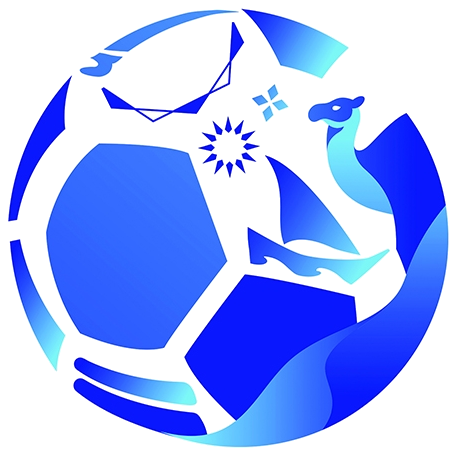
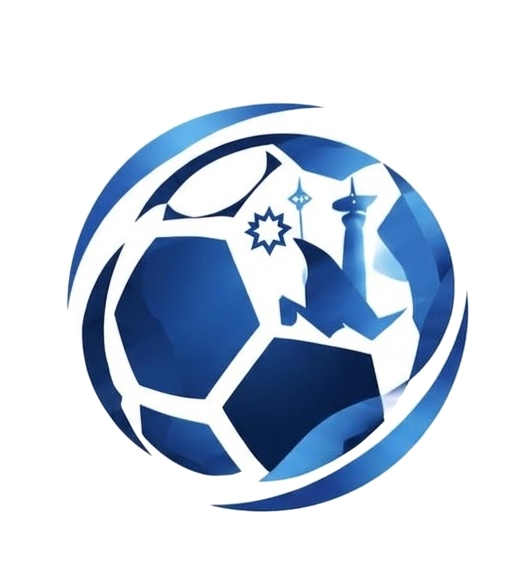
فانتسي v123: شعار Kuwait Fantasy League الجديد بدل الكرة+النص
- assets: logo-light.png (نص كحلي) و logo-dark.png (نص أبيض للوضع الليلي والخلفيات الداكنة) و ball.png (الكرة وحدها للأيقونة والتنبيهات) — كلها بخلفية شفافة مقصوصة من الشعار
- الشريط العلوي: الشعار الكامل بنسختيه (lk-light/lk-dark) بدل الكرة + «فانتسي الدوري الكويتي»
- شاشة البداية: الشعار الكامل بعرض 300px بدل الكرة + النص
- صفحة الدخول: الشعار بنسختيه فوق العنوان؛ بوابة المعاينة: النسخة البيضاء
- لوحة إعلانات الملعب: ثلاث نسخ من الشعار بدل الكرة + النص
- رفع الإصدار v123

diff --git a/fantasy/index.html b/fantasy/index.html
@@ -9,20 +9,20 @@
 <link rel="preconnect" href="https://fonts.googleapis.com">
 <link rel="preconnect" href="https://fonts.gstatic.com" crossorigin>
 <link href="https://fonts.googleapis.com/css2?family=Almarai:wght@300;400;700;800&display=swap" rel="stylesheet">
-<link rel="stylesheet" href="css/style.css?v=122">
+<link rel="stylesheet" href="css/style.css?v=123">
 <script src="https://cdnjs.cloudflare.com/ajax/libs/firebase/10.12.2/firebase-app-compat.min.js"></script>
 <script src="https://cdnjs.cloudflare.com/ajax/libs/firebase/10.12.2/firebase-auth-compat.min.js"></script>
 <script src="https://cdnjs.cloudflare.com/ajax/libs/firebase/10.12.2/firebase-firestore-compat.min.js"></script>
 </head>
 <body>
   <div id="splash">
-    <div class="splash-card"><img class="splash-logo" src="assets/ball.png" alt="فانتسي الدوري الكويتي"><div class="splash-name">فانتسي الدوري الكويتي</div></div>
+    <div class="splash-card"><img class="splash-logo" src="assets/logo-light.png" alt="Kuwait Fantasy League"></div>
   </div>
 
   <header id="topbar" style="display:none">
     <div id="brand" onclick="APP.go('dashboard')">
-      <img class="brand-ball" src="assets/ball.png" alt="">
-      <span class="brand-name">فانتسي الدوري الكويتي</span>
+      <img class="brand-lockup lk-dark" src="assets/logo-dark.png" alt="Kuwait Fantasy League">
+      <img class="brand-lockup lk-light" src="assets/logo-light.png" alt="Kuwait Fantasy League">
     </div>
     <a id="toSite" href="/" title="العودة للموقع">
       <svg viewBox="0 0 24 24" width="16" height="16" fill="none" stroke="currentColor" stroke-width="2.2" stroke-linecap="round" stroke-linejoin="round" aria-hidden="true"><path d="M9 6l6 6-6 6"/></svg>
@@ -37,24 +37,24 @@
   <nav id="bottomnav"></nav>
   <div id="toasts"></div>
 
-  <script src="js/cloud.js?v=122"></script>
-  <script src="js/data.js?v=122"></script>
-  <script src="js/engine.js?v=122"></script>
-  <script src="js/ui.js?v=122"></script>
-  <script src="js/kits.js?v=122"></script>
-  <script src="js/kits-number.js?v=122"></script>
-  <script src="js/views.js?v=122"></script>
-  <script src="js/picker.js?v=122"></script>
-  <script src="js/extras.js?v=122"></script>
-  <script src="js/adminauth.js?v=122"></script>
-  <script src="js/admin.js?v=122"></script>
-  <script src="js/guide.js?v=122"></script>
-  <script src="js/live-gw.js?v=122"></script>
-  <script src="js/mfsync.js?v=122"></script>
-  <script src="js/roster-sync.js?v=122"></script>
-  <script src="js/app.js?v=122"></script>
-  <script src="js/i18n.js?v=122"></script>
-  <script src="js/i18n-more.js?v=122"></script>
-  <script src="js/gate.js?v=122"></script>
+  <script src="js/cloud.js?v=123"></script>
+  <script src="js/data.js?v=123"></script>
+  <script src="js/engine.js?v=123"></script>
+  <script src="js/ui.js?v=123"></script>
+  <script src="js/kits.js?v=123"></script>
+  <script src="js/kits-number.js?v=123"></script>
+  <script src="js/views.js?v=123"></script>
+  <script src="js/picker.js?v=123"></script>
+  <script src="js/extras.js?v=123"></script>
+  <script src="js/adminauth.js?v=123"></script>
+  <script src="js/admin.js?v=123"></script>
+  <script src="js/guide.js?v=123"></script>
+  <script src="js/live-gw.js?v=123"></script>
+  <script src="js/mfsync.js?v=123"></script>
+  <script src="js/roster-sync.js?v=123"></script>
+  <script src="js/app.js?v=123"></script>
+  <script src="js/i18n.js?v=123"></script>
+  <script src="js/i18n-more.js?v=123"></script>
+  <script src="js/gate.js?v=123"></script>
 </body>
 </html>

diff --git a/fantasy/css/style.css b/fantasy/css/style.css
@@ -72,7 +72,7 @@ a{color:var(--blue); text-decoration:none;}
 #splash .s2{ width:160%; height:20vh; top:44%; left:-20%; background:linear-gradient(105deg, rgba(0,0,0,0) 0%, rgba(10,20,40,.028) 50%, rgba(0,0,0,0) 100%); }
 #splash .s3{ width:160%; height:30vh; top:66%; left:-35%; }
 #splash .splash-logo{
-  width:min(150px, 40vw); z-index:2; display:block; margin:0 auto;
+  width:min(300px, 66vw); z-index:2; display:block; margin:0 auto;
   filter:drop-shadow(0 10px 30px rgba(21,101,192,.18));
   animation:splashIn .7s cubic-bezier(.2,.9,.3,1.2);
 }
@@ -87,9 +87,10 @@ a{color:var(--blue); text-decoration:none;}
     radial-gradient(42% 62% at 98% 96%, rgba(255,110,80,.95), transparent 72%);
   filter:blur(22px); opacity:1;
 }
-.brand-ball{ height:38px; width:38px; display:block; flex:none; }
-.brand-name{ font-family:"Almarai"; font-weight:800; font-size:1.02rem; color:var(--text); white-space:nowrap; }
-#splash .splash-name{ margin-top:12px; text-align:center; font-family:"Almarai"; font-weight:800; font-size:1.15rem; color:#0d5296; }
+.brand-lockup{ height:42px; width:auto; display:block; }
+/* نسختا الشعار: فاتحة للوضع النهاري وبيضاء للوضع الليلي */
+.lk-dark{ display:none; } .lk-light{ display:block; }
+[data-theme="dark"] .lk-dark{ display:block; } [data-theme="dark"] .lk-light{ display:none; }
 #topActions .iconbtn.back .ic{ transform:scaleX(-1); }
 .brand-tag{ align-self:flex-start; margin-top:2px; }
 
@@ -610,7 +611,6 @@ tr:hover .btn-view{background:var(--accent);color:#fff;}
   display:flex;justify-content:space-around;align-items:center;z-index:1;
   border-bottom:2px solid rgba(0,0,0,.08);
 }
-.pitch-brand .pb{display:inline-flex;align-items:center;gap:5px;font-family:"Almarai";font-weight:800;font-size:.66rem;color:#0d5296;white-space:nowrap;}
 .pitch-brand img{height:17px;width:auto;}
 /* لمسة عمق للملعب */
 .pitch{box-shadow:inset 0 -40px 80px rgba(0,50,20,.18), 0 10px 30px rgba(13,79,146,.18);}

diff --git a/fantasy/js/views.js b/fantasy/js/views.js
@@ -28,7 +28,8 @@ const VIEWS = {
         <p class="tiny">يصلك رابط على بريدك تغيّر منه كلمة المرور، ثم تعود وتسجّل الدخول.</p>
       </div>`;
     return `<div class="auth-hero">
-      <img src="assets/ball.png" alt="" style="height:60px">
+      <img class="lk-light" src="assets/logo-light.png" alt="Kuwait Fantasy League" style="height:60px;margin:0 auto">
+      <img class="lk-dark" src="assets/logo-dark.png" alt="Kuwait Fantasy League" style="height:60px;margin:0 auto">
       <h1>فانتسي الدوري الكويتي</h1>
       <div class="sub">الدوري الكويتي الممتاز ${DB.state.rules.season} — كوّن فريقك ونافس أصحابك</div>
       <div class="card">
@@ -353,7 +354,7 @@ const VIEWS = {
     const rows=['G','D','M','F'].map(pos=>
       `<div class="pitch-row">${xi.filter(p=>p.pos===pos).map(p=>this.slotHTML(p.id, team, opt)).join('')}</div>`);
     return `<div class="pitch">
-      <div class="pitch-brand"><span class="pb"><img src="assets/ball.png" alt="">فانتسي الدوري الكويتي</span><span class="pb"><img src="assets/ball.png" alt="">فانتسي الدوري الكويتي</span><span class="pb"><img src="assets/ball.png" alt="">فانتسي الدوري الكويتي</span></div>
+      <div class="pitch-brand"><img src="assets/logo-light.png" alt=""><img src="assets/logo-light.png" alt=""><img src="assets/logo-light.png" alt=""></div>
       <div class="pf-goal"></div><div class="pf-box6"></div><div class="pf-box"></div><div class="pf-circle"></div>
       ${rows.join('')}</div>`;
   },

diff --git a/fantasy/js/picker.js b/fantasy/js/picker.js
@@ -53,7 +53,7 @@ Object.assign(VIEWS, {
         ${sq.length? `<button class="btn ghost sm" onclick="VIEWS.ui.pickerSquad=[];APP.render()">إفراغ الكل</button>`:''}
       </div>
       <div class="pitch-frame"><div class="pitch picker-pitch">
-        <div class="pitch-brand"><span class="pb"><img src="assets/ball.png" alt="">فانتسي الدوري الكويتي</span><span class="pb"><img src="assets/ball.png" alt="">فانتسي الدوري الكويتي</span><span class="pb"><img src="assets/ball.png" alt="">فانتسي الدوري الكويتي</span></div>
+        <div class="pitch-brand"><img src="assets/logo-light.png" alt=""><img src="assets/logo-light.png" alt=""><img src="assets/logo-light.png" alt=""></div>
         <div class="pf-goal"></div><div class="pf-box6"></div><div class="pf-box"></div><div class="pf-circle"></div>
         ${['G','D','M','F'].map(slotRow).join('')}
       </div></div>

diff --git a/fantasy/js/gate.js b/fantasy/js/gate.js
@@ -95,7 +95,7 @@ const GATE = {
         #gate .g-foot{margin-top:26px;font-size:11.5px;color:#5f7ea1}
       </style>
       <div class="g-card">
-        <img src="assets/ball.png" alt="">
+        <img src="assets/logo-dark.png" alt="Kuwait Fantasy League">
         <h1>نسخة قيد المراجعة</h1>
         <p>هذا القسم مب مفتوح للجمهور بعد.<br>أدخل رمز الدخول للمعاينة.</p>
         <input id="gateInput" type="password" inputmode="text" autocomplete="off" placeholder="رمز الدخول">
